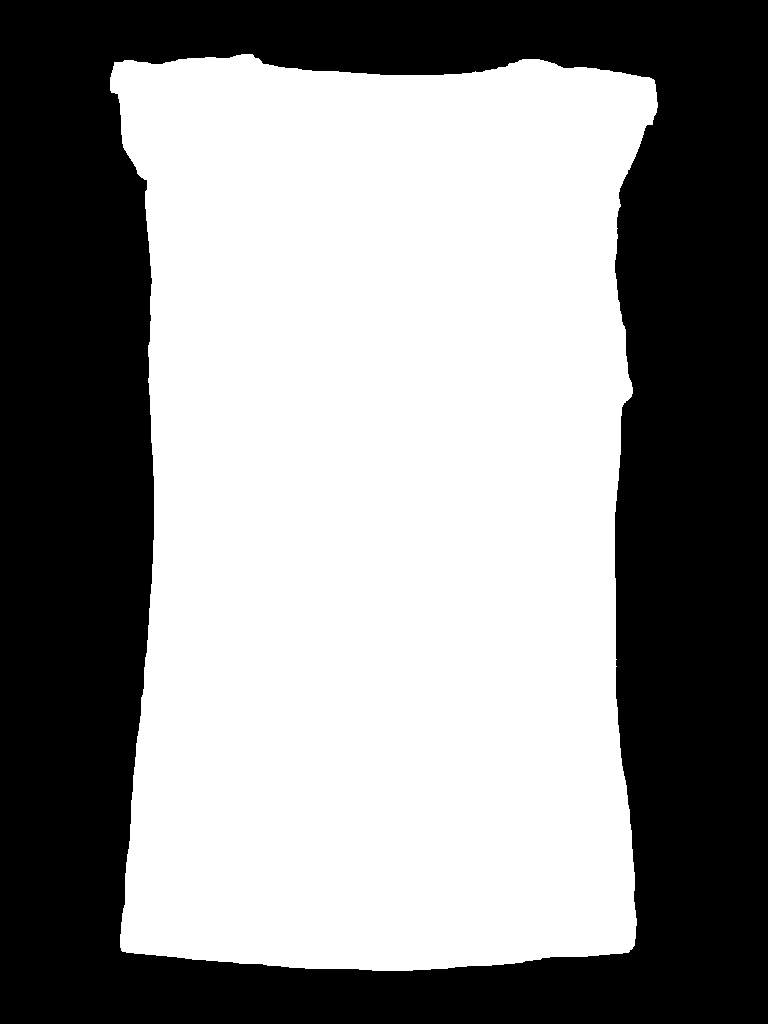
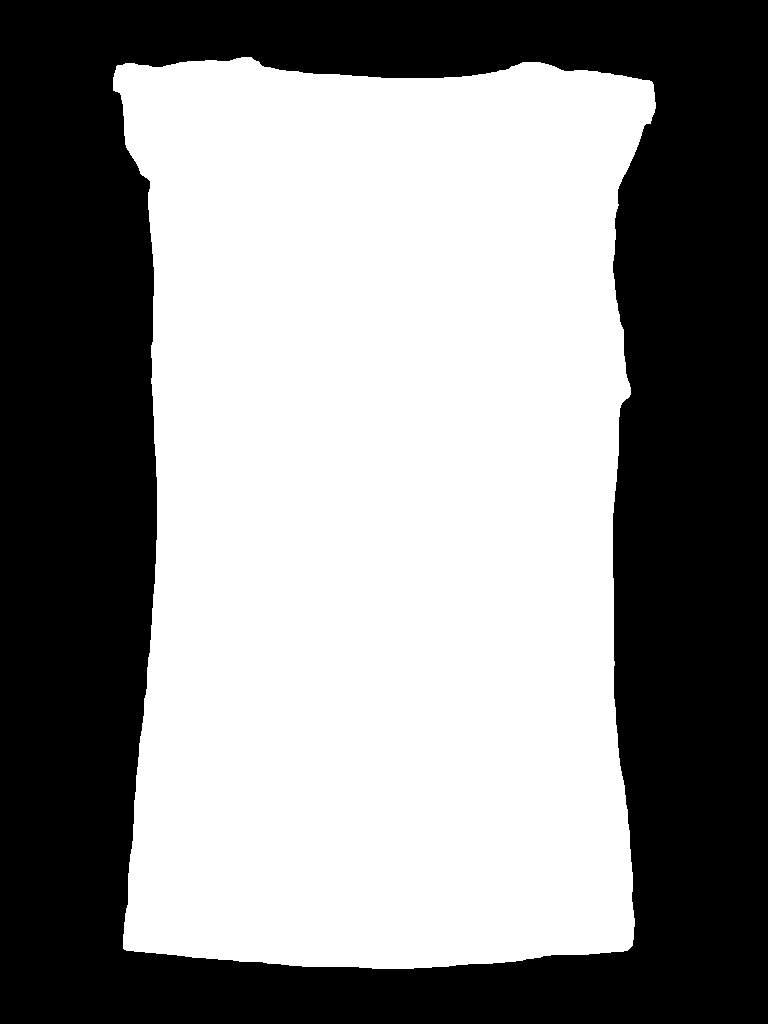
new

diff --git a/source.py b/source.py
@@ -1,20 +1,22 @@
 import glob
-
+import os
 import cv2
-import ipympl
-import matplotlib.pyplot as plt
-import numpy as np
-import skimage as ski
 
-img = cv2.imread('./datasets/cloth/02783_00.jpg')
+inpath = "./datasets/cloth/"
+outpath = "./datasets/mask/"
 
-img = cv2.blur(img,(15,15))
+for file in os.listdir(inpath):
+    if file.endswith(".jpg"):
+        img = cv2.imread(inpath + file)
+        # blur
+        blurred = cv2.blur(img,(15,15))
+        # grayscale
+        gray = cv2.cvtColor(blurred, cv2.COLOR_BGR2GRAY) 
+        # mask
+        ret,masked1 = cv2.threshold(gray,245,255,cv2.THRESH_BINARY_INV)
+        # blur the mask
+        mask_blurred = cv2.blur(img,(10,10))
+        # mask the blur
+        ret,masked2 = cv2.threshold(mask_blurred,245,255,cv2.THRESH_BINARY)
 
-assert img is not None, "file could not be read, check with os.path.exists()"
-thresh1 = cv2.cvtColor(img, cv2.COLOR_BGR2GRAY) 
-ret,img = cv2.threshold(thresh1,245,255,cv2.THRESH_BINARY_INV)
-img = cv2.blur(img,(10,10))
-ret,img = cv2.threshold(img,245,255,cv2.THRESH_BINARY)
-
-
-cv2.imwrite("./datasets/mask/02783_00.jpg", img)
+        cv2.imwrite(outpath + file, masked2)
